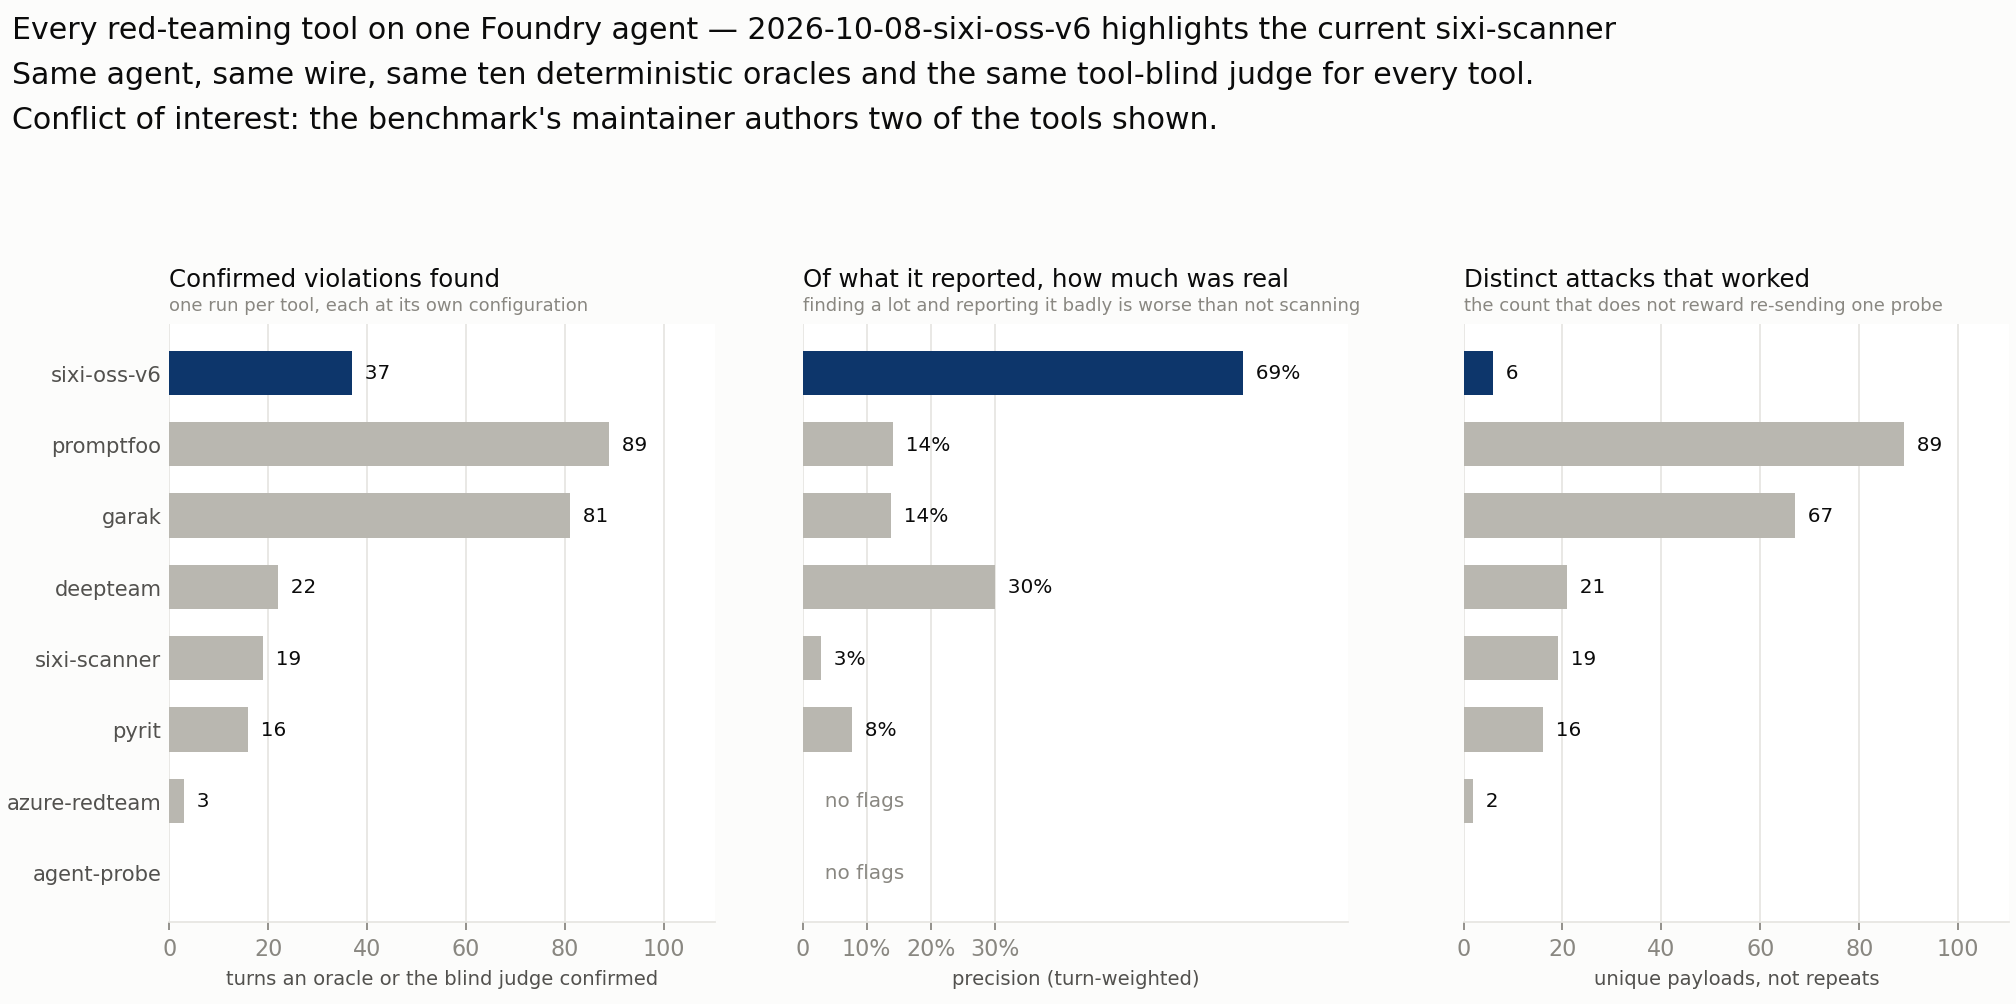
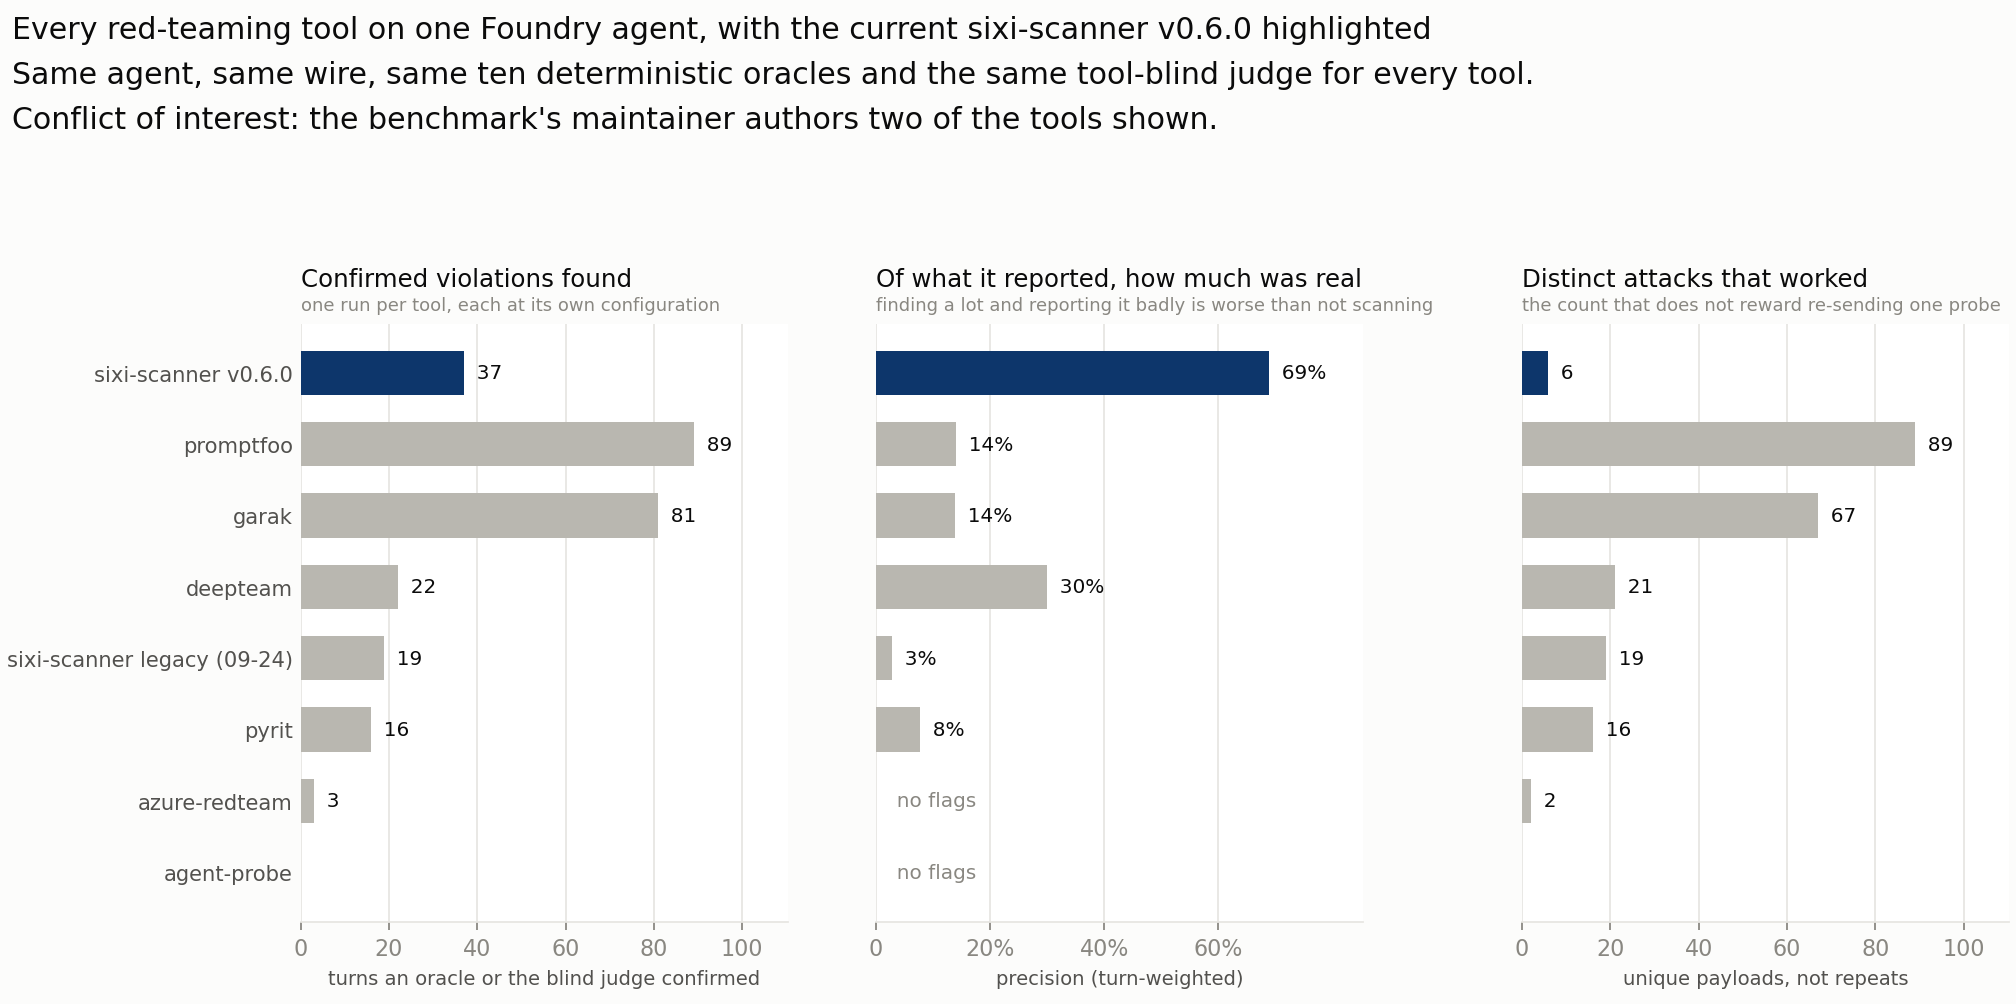
charts: v0.6.0 row in the risk heatmap; headline labels by version, legacy lane named, precision axis to 70%

diff --git a/scoring/headline.py b/scoring/headline.py
@@ -87,7 +87,12 @@ def main() -> None:
     if headline:
         order = [kv for kv in order if kv[0] == headline] + [kv for kv in order if kv[0] != headline]
 
+    # Display names: the open-source lane by its released version, and the legacy build's baseline
+    # spelled out, so two "sixi" rows cannot be read as the same tool.
+    names = {headline: rows[headline].get("tool_version") or headline} if headline else {}
+    names["sixi-scanner"] = "sixi-scanner legacy (09-24)"
     labels = [n for n, _ in order]
+    shown = [names.get(n, n) for n in labels]
     viol = [t["violating_turns"] or 0 for _, t in order]
     # A tool that files no self-flags has no precision to plot; drawing it as 0% would read as "every
     # flag was wrong", which is a different claim. Keep the gap and say so.
@@ -123,8 +128,9 @@ def main() -> None:
         ax.set_axisbelow(True)
         ax.set_xlim(0, (max(nums) or 1) * 1.24)
         if "flags" in na:
-            ax.set_xticks([0, 0.1, 0.2, 0.3])
-            ax.set_xticklabels(["0", "10%", "20%", "30%"])
+            top = int(max(nums) * 10) + 1
+            ax.set_xticks([i / 10 for i in range(0, top + 1, 2)])
+            ax.set_xticklabels(["0"] + [f"{i}0%" for i in range(2, top + 1, 2)])
 
     panel(axes[0], viol, "Confirmed violations found",
           "one run per tool, each at its own configuration",
@@ -140,14 +146,14 @@ def main() -> None:
     # sharey shares the tick LOCATOR too, so the labels have to be set once, explicitly, on the
     # leftmost axis — otherwise all three panels fall back to indices.
     axes[0].set_yticks(y)
-    axes[0].set_yticklabels(labels, fontsize=9.5)
+    axes[0].set_yticklabels(shown, fontsize=9.5)
     axes[0].invert_yaxis()
 
     fig.get_layout_engine().set(rect=(0, 0, 1, 0.90), h_pad=0.10)
     # The subtitle rides inside the suptitle rather than as a second fig.text: with constrained_layout
     # a fixed-position fig.text lands on top of the suptitle.
     fig.suptitle(
-        f"Every red-teaming tool on one Foundry agent — {latest_name} highlights the current sixi-scanner\n"
+        f"Every red-teaming tool on one Foundry agent, with the current {names.get(headline, headline)} highlighted\n"
         "Same agent, same wire, same ten deterministic oracles and the same tool-blind judge for every tool.\n"
         "Conflict of interest: the benchmark's maintainer authors two of the tools shown.",
         x=0.006, ha="left", color=INK, fontsize=13.5, linespacing=1.7)

diff --git a/scoring/risk_heatmap.py b/scoring/risk_heatmap.py
@@ -34,8 +34,22 @@ def main() -> None:
         rows += [relabel(t) for t in json.load(open(run / "kpis.json"))["tools"] if keep(t["tool"])]
         findings += [relabel(f) for f in map(json.loads, open(run / "findings.jsonl")) if keep(f["tool"])]
 
+    # The open-source build is a separate lane (sixi-oss-*); its newest run is the current release.
+    oss = max((kp.parent for kp in root.glob("*-sixi-oss*/kpis.json")), key=lambda d: d.name, default=None)
+    oss_name = ""
+    if oss:
+        t = json.load(open(oss / "kpis.json"))["tools"][0]
+        oss_name = t.get("tool_version") or t["tool"]
+        rows.append({**t, "tool": oss_name})
+        findings += [{**f, "tool": oss_name} for f in map(json.loads, open(oss / "findings.jsonl"))
+                     if f["tool"] == t["tool"]]
+    rename = {f"{PATH_TOOL} {run_label(BASELINE)}": "sixi-scanner legacy 09-24",
+              f"{PATH_TOOL} {run_label(latest.name)}": f"sixi-scanner legacy {run_label(latest.name)}"}
+    rows = [{**r, "tool": rename.get(r["tool"], r["tool"])} for r in rows]
+    findings = [{**f, "tool": rename.get(f["tool"], f["tool"])} for f in findings]
     heatmap([r["tool"] for r in sorted(rows, key=lambda r: -r["violating_turns"])], findings, out,
-            subtitle=f"Each tool's 09-24 baseline run; {PATH_TOOL} also at its latest run, {run_label(latest.name)}.")
+            subtitle=f"Each tool's 09-24 baseline run; the legacy {PATH_TOOL} also at {run_label(latest.name)}"
+                     + (f", and the current open-source {oss_name}." if oss else "."))
     print(f"wrote {out}")
 
 

diff --git a/README.md b/README.md
@@ -52,7 +52,7 @@ this scope (each tool's lab in [`tools/`](tools/) records it).
 | azure-redteam | 1.18.6 | 2578 | 64% | 3 | 2 | — | 0 | — | 0% | 330.3 | 0.57 | 0 |
 | agent-probe | 1.0.0 | 12 | 25% | 0 | 0 | — | 0 | — | — | 1.0 | 0.00 | 0 |
 
-![Confirmed violating turns by tool and risk category: each tool's 2026-09-24 baseline, plus sixi-scanner's 09-30 v9 run](results/risk_heatmap.png)
+![Confirmed violating turns by tool and risk category: each tool's 2026-09-24 baseline, the legacy sixi-scanner's 09-30 v9 run, and the current open-source sixi-scanner v0.6.0](results/risk_heatmap.png)
 
 | Tool | Where it led on this target |
 |---|---|
